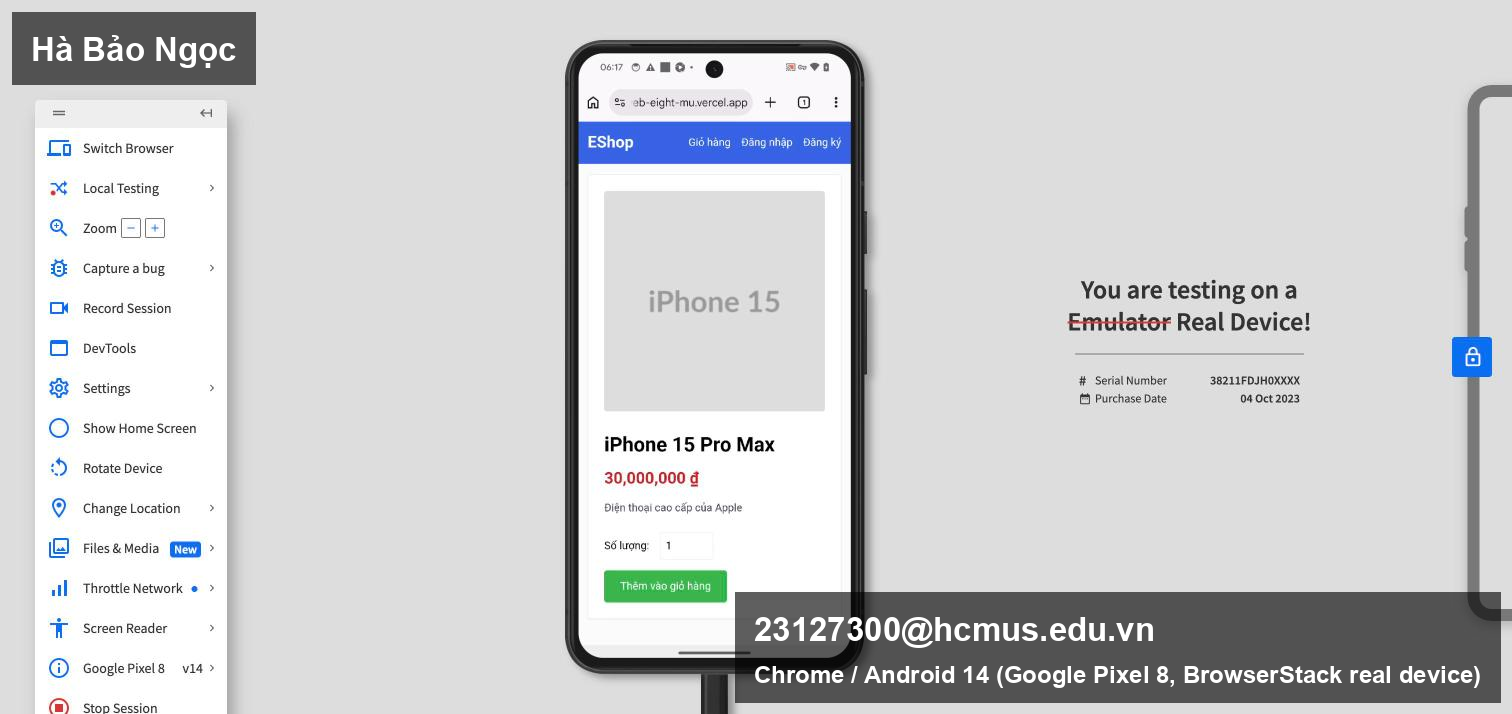
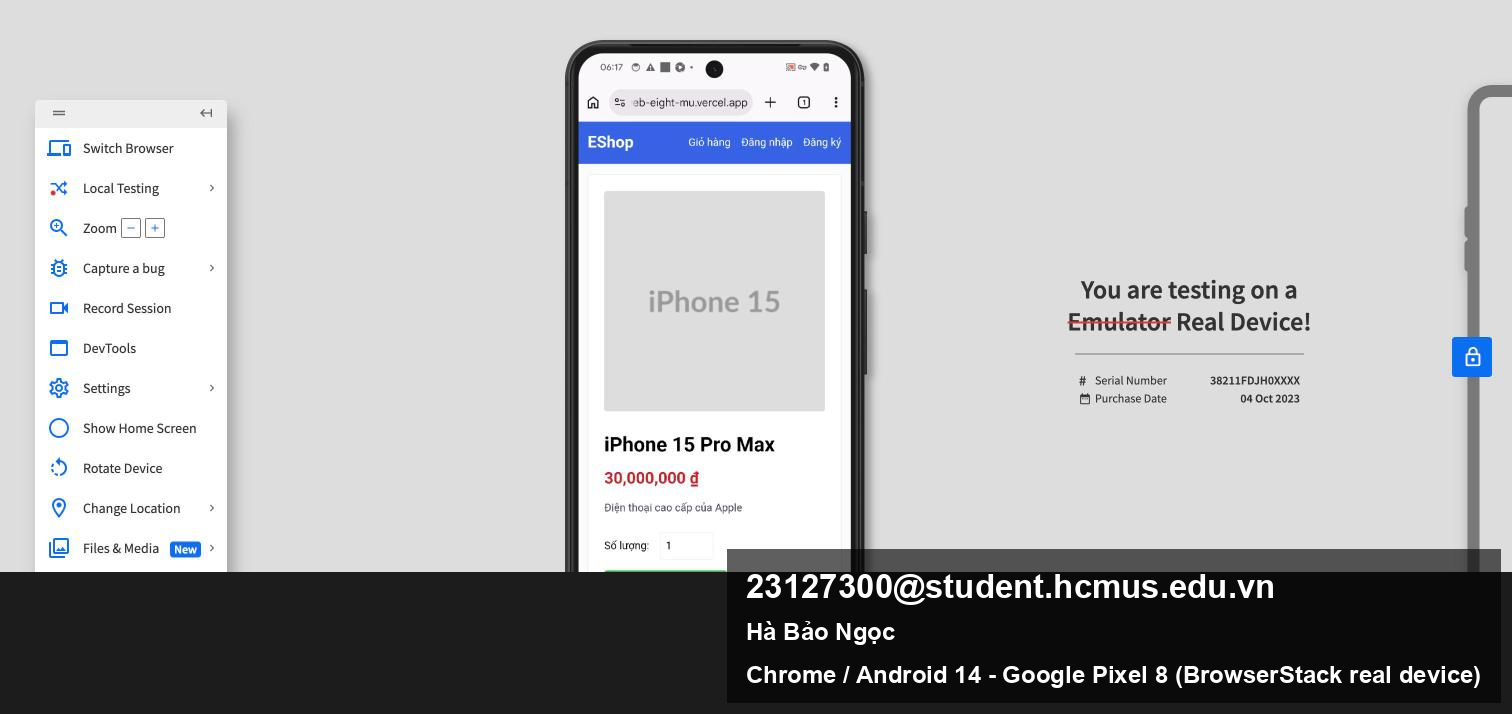
fix: correct the watermark email to 23127300@student.hcmus.edu.vn
The overlay carried 23127300@hcmus.edu.vn, which is not a real address. The
student email is 23127300@student.hcmus.edu.vn, and it is the right one for
the overlay because §11 wants the student ID visible and that address carries
it.

- restamped 11 screenshots from their unstamped originals
- the two legacy Android shots had the wrong address baked into the pixels
  with no original available, so the old watermark bar is painted over and
  restamped; only the annotation changed, never the captured page
- dropped desktop-firefox-search-results and desktop-firefox-cart-added: same
  problem, no original, and both are superseded by the six Firefox captures
  from this run
- stamp script now accepts the student. subdomain instead of warning on it
- CLAUDE.md, main report, Task 3 report and demo script updated

reports/prompt-log.md keeps the old address: it is a verbatim record of what
was run at the time and must not be rewritten.

Changed region(s): [[0.0, 0.7703, 1.0, 1.0], [0.0, 0.0, 0.1865, 0.1232]]

diff --git a/.claude/skills/cross-platform-testing/scripts/stamp_screenshot.py b/.claude/skills/cross-platform-testing/scripts/stamp_screenshot.py
@@ -2,12 +2,12 @@
 """Overlay a username watermark onto a cross-platform screenshot.
 
 HW03 requires every cross-platform screenshot to overlay the username in the
-form StudentID@hcmus.edu.vn (spec §6, Task 3). This stamps it directly onto
+form <StudentID>@student.hcmus.edu.vn (spec §6, Task 3). This stamps it directly onto
 the image so it can't be cropped out accidentally, rather than relying on the
 student to remember to type it into a browser dev-tools overlay each time.
 
 Usage:
-    python3 stamp_screenshot.py <input.png> <output.png> "23127300@hcmus.edu.vn" \
+    python3 stamp_screenshot.py <input.png> <output.png> "23127300@student.hcmus.edu.vn" \
         [--corner br|bl|tr|tl] [--label "Chrome / Windows 11"]
 """
 import argparse
@@ -81,14 +81,14 @@ if __name__ == "__main__":
     parser = argparse.ArgumentParser(description=__doc__)
     parser.add_argument("input")
     parser.add_argument("output")
-    parser.add_argument("username", help="e.g. 23127300@hcmus.edu.vn")
+    parser.add_argument("username", help="e.g. 23127300@student.hcmus.edu.vn")
     parser.add_argument("--corner", choices=CORNERS.keys(), default="br")
     parser.add_argument("--label", action="append", default=None,
                         help="extra line under the username; repeat for several lines "
                              "(e.g. --label 'Ha Bao Ngoc' --label 'Chrome 150 / macOS 26.5.2')")
     args = parser.parse_args()
 
-    if "@hcmus.edu.vn" not in args.username:
+    if "hcmus.edu.vn" not in args.username:
         print("warning: username doesn't look like <StudentID>@hcmus.edu.vn — check §6 format", file=sys.stderr)
 
     stamp(args.input, args.output, args.username, args.corner, args.label)

diff --git a/cross-platform/report.md b/cross-platform/report.md
@@ -147,13 +147,13 @@ fallback rewrite. GitHub issue
 
 ## Danh sách ảnh bằng chứng
 
-Mỗi ảnh đều có watermark `23127300@hcmus.edu.vn`, họ tên `Hà Bảo Ngọc`, và tên
+Mỗi ảnh đều có watermark `23127300@student.hcmus.edu.vn`, họ tên `Hà Bảo Ngọc`, và tên
 trình duyệt/hệ điều hành/thiết bị theo §6 và §11.
 
 | Nền tảng | File |
 |---|---|
 | Chrome / macOS | `desktop-chrome-home-grid.png`, `desktop-chrome-search-results.png`, `desktop-chrome-cart-added.png`, `desktop-chrome-deeplink-404.png` |
-| Firefox / Win 11 | `desktop-firefox-home-grid.png`, `desktop-firefox-search-results.png`, `desktop-firefox-product-detail-spinner.png`, `desktop-firefox-cart-empty-one-click.png`, `desktop-firefox-back-loses-search.png`, `desktop-firefox-deeplink-404.png`, `desktop-firefox-cart-added.png`, `desktop-firefox-diacritics-tooling-limit.png` |
+| Firefox / Win 11 | `desktop-firefox-home-grid.png`, `desktop-firefox-product-detail-spinner.png`, `desktop-firefox-cart-empty-one-click.png`, `desktop-firefox-back-loses-search.png`, `desktop-firefox-deeplink-404.png`, `desktop-firefox-diacritics-tooling-limit.png` |
 | Chrome / Android 14 | `android-chrome-deeplink-404.png`, `android-chrome-product-detail.png`, `android-chrome-cart-added.png` |
 
 Ảnh gốc chưa đóng watermark của lượt chạy này nằm trong `raw-firefox/` và

diff --git a/CLAUDE.md b/CLAUDE.md
@@ -7,7 +7,7 @@
   because we point at the same SUT and coordinate so no two members pick the
   same primary GUI screen or the same usability flow (§5's anti-duplication
   rule) — it is not a group project split.
-- **Student**: StudentID `23127300`. Use `23127300@hcmus.edu.vn` for any
+- **Student**: StudentID `23127300`. Use `23127300@student.hcmus.edu.vn` for any
   required screenshot username overlay.
 - **My HW03 scope** (my own choice, coordinated with N08 only to avoid
   duplicating a teammate's primary screen/flow per §5):

diff --git a/reports/main-report.md b/reports/main-report.md
@@ -160,7 +160,7 @@ và Task 2: frontend `https://frontend-web-eight-mu.vercel.app/` (Vercel),
 backend `https://eshop-backend-demo2.onrender.com` (Render). Lý do chọn bản
 deploy thật thay vì localhost được giải thích trong `cross-platform/report.md`.
 
-3 platform, mỗi screenshot có overlay `23127300@hcmus.edu.vn` và họ tên theo §6
+3 platform, mỗi screenshot có overlay `23127300@student.hcmus.edu.vn` và họ tên theo §6
 và §11:
 
 1. **Chrome (desktop, macOS)**

diff --git a/skills-demo-script.md b/skills-demo-script.md
@@ -317,7 +317,7 @@ cross-link Task 2]*
 
 ## Ghi chú khi quay
 
-- Nhớ để **email `23127300@hcmus.edu.vn` hiện trên màn hình** ở đầu mỗi video
+- Nhớ để **email `23127300@student.hcmus.edu.vn` hiện trên màn hình** ở đầu mỗi video
   (mở sẵn một tab hoặc để trên taskbar) cho khớp với watermark trên screenshot.
 - Đoạn AI chạy lâu thì **tua nhanh 4×** và giữ lời thuyết minh chạy đè lên,
   đừng để khoảng lặng chờ.
